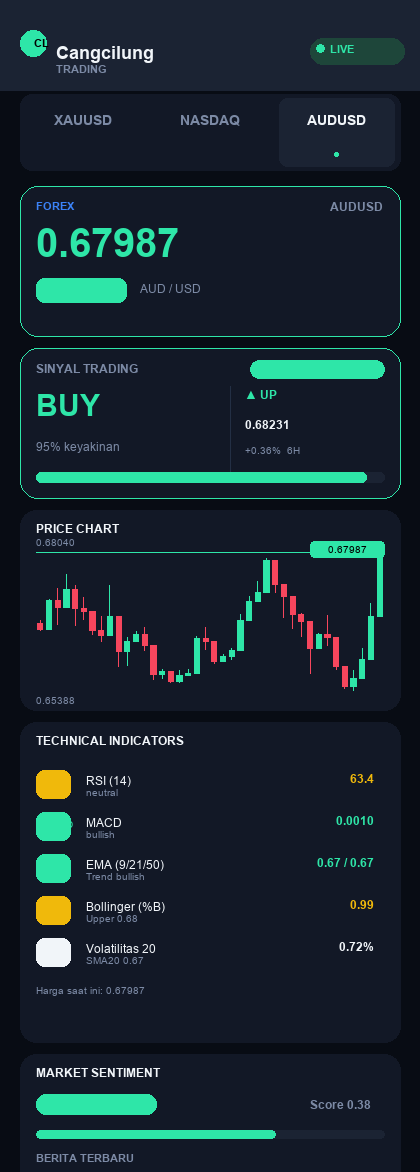
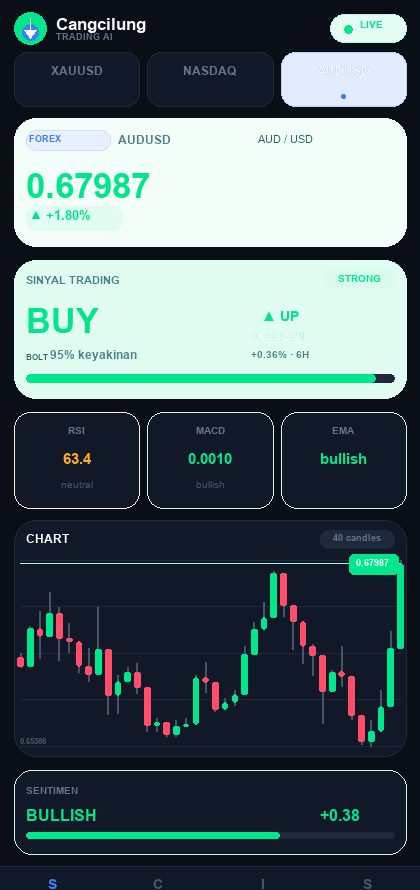
Tambah preview mockups UI baru + generator script (Pillow)

diff --git a/previews/make_previews.py b/previews/make_previews.py
@@ -1,0 +1,271 @@
+import json
+import urllib.request
+import random
+from PIL import Image, ImageDraw, ImageFont
+
+API = "https://cangcilung-trading-api.vercel.app/signal/{}"
+OUT = r"D:\fajrin\OPENCODE PROJECT\APK CANGCILUNG\previews"
+
+BG = (10, 14, 23)
+SURFACE = (17, 24, 39)
+SURFACE_ALT = (30, 41, 59)
+GREEN = (0, 230, 138)
+RED = (255, 77, 106)
+AMBER = (255, 176, 32)
+BLUE = (59, 130, 246)
+PURPLE = (139, 92, 246)
+TEXT1 = (248, 250, 252)
+TEXT2 = (100, 116, 139)
+TEXT3 = (71, 85, 105)
+
+W = 420
+
+
+def clamp(v, a, b):
+    return max(a, min(b, v))
+
+
+def lerp(a, b, t):
+    return tuple(int(clamp(a[i] + (b[i] - a[i]) * t, 0, 255)) for i in range(3))
+
+
+def get_font(size, bold=False):
+    paths = []
+    if bold:
+        paths = [
+            "C:/Windows/Fonts/arialbd.ttf",
+            "C:/Windows/Fonts/segoeuib.ttf",
+        ]
+    else:
+        paths = [
+            "C:/Windows/Fonts/arial.ttf",
+            "C:/Windows/Fonts/segoeui.ttf",
+        ]
+    for p in paths:
+        try:
+            return ImageFont.truetype(p, size)
+        except Exception:
+            continue
+    return ImageFont.load_default()
+
+
+def rrect(draw, box, radius, fill=None, outline=None, width=1):
+    draw.rounded_rectangle(box, radius=radius, fill=fill, outline=outline, width=width)
+
+
+def text(draw, xy, s, font, fill=TEXT1, center_w=None):
+    if center_w is not None:
+        bb = draw.textbbox((0, 0), s, font=font)
+        x = center_w - (bb[2] - bb[0]) / 2
+        draw.text((x, xy[1]), s, font=font, fill=fill)
+    else:
+        draw.text(xy, s, font=font, fill=fill)
+
+
+def draw_spark(draw, pts, x0, y0, w, h, color, fill=True):
+    if len(pts) < 2:
+        return
+    n = len(pts)
+    min_p = min(pts)
+    max_p = max(pts)
+    span = max_p - min_p or 1
+    coords = [
+        (x0 + w * i / (n - 1), y0 + h - h * (p - min_p) / span)
+        for i, p in enumerate(pts)
+    ]
+    if fill:
+        poly = coords + [(x0 + w, y0 + h), (x0, y0 + h)]
+        draw.polygon(poly, fill=color + (35,))
+    draw.line(coords, fill=color, width=2)
+
+
+def fetch(symbol):
+    with urllib.request.urlopen(API.format(symbol), timeout=60) as r:
+        return json.load(r)
+
+
+def render(symbol):
+    d = fetch(symbol)
+    prices = [c["c"] for c in d["candles"]]
+    sig = d["signal"]
+    pred = d["prediction"]
+    ind = d["indicators"]
+    sent = d["sentiment"]
+    dec = d["decimals"]
+    up = d["change_pct"] >= 0
+    accent = GREEN if up else RED
+    sig_col = GREEN if sig["action"] in ("BUY", "STRONG", "BULLISH", "UP") else RED if sig["action"] in ("SELL", "BEARISH", "DOWN") else AMBER
+    dir_col = GREEN if pred["direction"] == "UP" else RED if pred["direction"] == "DOWN" else AMBER
+    pct = (pred["next_price"] - d["current_price"]) / d["current_price"] * 100 if d["current_price"] else 0
+
+    y = 0
+    img = Image.new("RGBA", (W, 890), BG)
+    draw = ImageDraw.Draw(img)
+
+    # ---- top bar ----
+    rrect(draw, (14, 12, 46, 44), 22, fill=None, outline=None)
+    draw.ellipse((14, 12, 46, 44), fill=(0, 230, 138))
+    draw.ellipse((22, 24, 38, 40), fill=(59, 130, 246))
+    draw.polygon([(30, 18), (30, 38), (24, 30), (36, 30), (30, 38)], fill=(248, 250, 252))
+    text(draw, (56, 14), "Cangcilung", get_font(17, True), TEXT1)
+    text(draw, (56, 31), "TRADING AI", get_font(9, True), TEXT2)
+    # LIVE badge
+    rrect(draw, (330, 14, 406, 42), 20, fill=GREEN + (25,), outline=GREEN + (77,))
+    draw.ellipse((344, 25, 352, 33), fill=GREEN)
+    text(draw, (360, 18), "LIVE", get_font(10, True), GREEN)
+
+    y = 52
+    # ---- symbol bar ----
+    syms = ["XAUUSD", "NASDAQ", "AUDUSD"]
+    x = 14
+    sw = (W - 28 - 16) / 3
+    for s in syms:
+        active = s == symbol
+        fill = BLUE + (38,) if active else SURFACE
+        outline = BLUE + (102,) if active else (30, 41, 59)
+        rrect(draw, (x, y, x + sw, y + 54), 14, fill=fill, outline=outline)
+        text(draw, (x, y + 12), s, get_font(12, True), TEXT1 if active else TEXT2, center_w=x + sw / 2)
+        if active:
+            draw.ellipse((x + sw / 2 - 2, y + 42, x + sw / 2 + 2, y + 46), fill=BLUE)
+        x += sw + 8
+    y += 66
+
+    # ---- price hero ----
+    rrect(draw, (14, y, W - 14, y + 128), 22, fill=SURFACE, outline=accent + (51,))
+    # glow: layered translucent rounded rects
+    rrect(draw, (14, y, W - 14, y + 128), 22, fill=accent + (12,))
+    rrect(draw, (26, y + 12, 110, y + 32), 10, fill=BLUE + (30,), outline=BLUE + (64,))
+    text(draw, (29, y + 15), d["category"].upper(), get_font(9, True), BLUE)
+    text(draw, (118, y + 15), d["symbol"], get_font(12, True), TEXT2)
+    text(draw, (258, y + 15), d["name"], get_font(11), TEXT3)
+    px = f"{d['current_price']:,.{dec}f}"
+    text(draw, (26, y + 48), px, get_font(35, True), accent)
+    rrect(draw, (26, y + 88, 26 + 30 + 66, y + 112), 10, fill=accent + (30,))
+    arr = "+" if up else "-"
+    text(draw, (30, y + 90), f"{'▲' if up else '▼'}", get_font(12, True), accent)
+    text(draw, (46, y + 90), f"{arr}{abs(d['change_pct']):.2f}%", get_font(13, True), accent)
+
+    y += 142
+    # ---- signal hero ----
+    rrect(draw, (14, y, W - 14, y + 138), 22, fill=SURFACE, outline=sig_col + (77,))
+    rrect(draw, (14, y, W - 14, y + 138), 22, fill=sig_col + (30,))
+    text(draw, (26, y + 14), "SINYAL TRADING", get_font(11, True), TEXT2)
+    rrect(draw, (W - 96, y + 10, W - 26, y + 28), 8, fill=sig_col + (38,))
+    text(draw, (W - 61, y + 12), sig["strength"].upper(), get_font(10, True), sig_col, center_w=W - 61)
+    text(draw, (26, y + 42), sig["action"], get_font(34, True), sig_col)
+    text(draw, (26, y + 92), "BOLT", get_font(8, True), TEXT3)
+    text(draw, (50, y + 88), f"{sig['confidence']*100:.0f}% keyakinan", get_font(12, True), TEXT2)
+    text(draw, (W - 190, y + 48), ("▲" if pred["direction"] == "UP" else "▼") + " " + pred["direction"], get_font(14, True), dir_col, center_w=W - 140)
+    np = f"{pred['next_price']:,.{dec}f}"
+    text(draw, (W - 190, y + 68), np, get_font(14, True), TEXT1, center_w=W - 140)
+    text(draw, (W - 190, y + 88), f"{pct:+.2f}% · {pred['horizon']}", get_font(10, True), TEXT2, center_w=W - 140)
+    # progress bar
+    rrect(draw, (26, y + 114, W - 26, y + 122), 4, fill=SURFACE_ALT)
+    bw = int((W - 52) * sig["confidence"])
+    if bw > 0:
+        rrect(draw, (26, y + 114, 26 + bw, y + 122), 4, fill=sig_col)
+
+    y += 152
+    # ---- quick indicators (3 mini tiles) ----
+    rsi = ind["rsi"]
+    macd = ind["macd"]
+    ema = ind["ema"]
+    rsi_c = GREEN if rsi["value"] < 30 else RED if rsi["value"] > 70 else AMBER
+    macd_c = GREEN if macd["histogram"] >= 0 else RED
+    ema_c = GREEN if ema["trend"] == "bullish" else RED
+    tls = [
+        ("RSI", f"{rsi['value']:.1f}", rsi["region"], rsi_c),
+        ("MACD", f"{macd['histogram']:.4f}", macd.get("cross") or "neutral", macd_c),
+        ("EMA", ema["trend"], "", ema_c),
+    ]
+    tw = (W - 28 - 16) / 3
+    x = 14
+    for label, value, sub, c in tls:
+        rrect(draw, (x, y, x + tw, y + 96), 16, fill=SURFACE, outline=c + (51,))
+        text(draw, (x + tw / 2, y + 12), label, get_font(10, True), TEXT2, center_w=x + tw / 2)
+        text(draw, (x + tw / 2, y + 38), value, get_font(15, True), c, center_w=x + tw / 2)
+        if sub:
+            text(draw, (x + tw / 2, y + 66), sub, get_font(10), TEXT3, center_w=x + tw / 2)
+        x += tw + 8
+
+    y += 108
+    # ---- chart card ----
+    rrect(draw, (14, y, W - 14, y + 236), 22, fill=SURFACE, outline=(30, 41, 59))
+    text(draw, (26, y + 12), "CHART", get_font(12, True), TEXT1)
+    rrect(draw, (W - 100, y + 10, W - 26, y + 28), 8, fill=SURFACE_ALT)
+    text(draw, (W - 63, y + 12), f"{len(prices)} candles", get_font(9, True), TEXT2, center_w=W - 63)
+    cy = y + 40
+    ch = 186
+    px0, px1 = 20, W - 20
+    # grid
+    for i in range(5):
+        ly = cy + ch * i / 4
+        draw.line([(px0, ly), (px1, ly)], fill=(30, 41, 59), width=1)
+    # candles
+    n = len(prices)
+    if n > 0:
+        mins = min(min(c["l"] for c in d["candles"]), min(c["o"] for c in d["candles"]))
+        maxs = max(max(c["h"] for c in d["candles"]), max(c["c"] for c in d["candles"]))
+        span = maxs - mins or 1
+        for i, c in enumerate(d["candles"]):
+            cx = px0 + (px1 - px0) * i / max(n - 1, 1)
+            cw = (px1 - px0) / n * 0.6
+            upc = c["c"] >= c["o"]
+            col = GREEN if upc else RED
+            yh = cy + ch * (maxs - c["h"]) / span
+            yl = cy + ch * (maxs - c["l"]) / span
+            yo = cy + ch * (maxs - c["o"]) / span
+            yc = cy + ch * (maxs - c["c"]) / span
+            draw.line([(cx, yh), (cx, yl)], fill=TEXT3, width=2)
+            top = min(yo, yc)
+            bot = max(yo, yc)
+            rrect(draw, (cx - cw / 2, top, cx + cw / 2, max(top + 1, bot)), 2, fill=col)
+        # last price tag
+        last = d["candles"][-1]
+        lc = GREEN if last["c"] >= last["o"] else RED
+        lyp = cy + ch * (maxs - last["c"]) / span
+        draw.line([(px0, lyp), (px1, lyp)], fill=lc + (90,), width=1)
+        tag = f" {last['c']:,.{dec}f} "
+        f = get_font(9, True)
+        bb = draw.textbbox((0, 0), tag, font=f)
+        tw2 = bb[2] - bb[0]
+        rrect(draw, (px1 - tw2 - 12, lyp - 10, px1 - 2, lyp + 10), 5, fill=lc)
+        text(draw, (px1 - tw2 - 8, lyp - 7), tag, f, (255, 255, 255))
+    text(draw, (px0, y + 216), f"{mins:,.{dec}f}", get_font(8, True), TEXT3)
+
+    y += 250
+    # ---- sentiment strip ----
+    sent_c = GREEN if sent["label"].startswith("BULL") else RED if sent["label"].startswith("BEAR") else AMBER
+    rrect(draw, (14, y, W - 14, y + 84), 18, fill=SURFACE, outline=sent_c + (51,))
+    text(draw, (26, y + 14), "SENTIMEN", get_font(10, True), TEXT2)
+    text(draw, (26, y + 36), sent["label"], get_font(16, True), sent_c)
+    text(draw, (W - 120, y + 36), f"{sent['score']:+.2f}", get_font(16, True), sent_c, center_w=W - 80)
+    rrect(draw, (26, y + 62, W - 26, y + 68), 3, fill=SURFACE_ALT)
+    sw2 = int((W - 52) * clamp((sent["score"] + 1) / 2, 0, 1))
+    if sw2 > 0:
+        rrect(draw, (26, y + 62, 26 + sw2, y + 68), 3, fill=sent_c)
+    # sentiment sparkline
+    spark = [float(x) for x in d.get("sentiment_history", [])] or [0.2, 0.5, 0.4, 0.7, 0.6, 0.8]
+
+    y += 96
+    # ---- bottom nav ----
+    rrect(draw, (0, y, W, y + 64), 0, fill=SURFACE, outline=None)
+    draw.line([(0, y), (W, y)], fill=(30, 41, 59), width=1)
+    tabs = [("Signal", BLUE, True), ("Chart", TEXT3, False), ("Indikator", TEXT3, False), ("Sentimen", TEXT3, False)]
+    tw3 = W / 4
+    for i, (label, c, act) in enumerate(tabs):
+        tx = i * tw3
+        text(draw, (tx, y + 10), label[0], get_font(14, True), c, center_w=tx + tw3 / 2)
+        text(draw, (tx, y + 34), label, get_font(9, True), c, center_w=tx + tw3 / 2)
+
+    out = f"{OUT}/preview_{symbol}.png"
+    img.save(out)
+    return out
+
+
+if __name__ == "__main__":
+    import os
+    os.makedirs(OUT, exist_ok=True)
+    for s in ["XAUUSD", "NASDAQ", "AUDUSD"]:
+        p = render(s)
+        print("saved", p)
